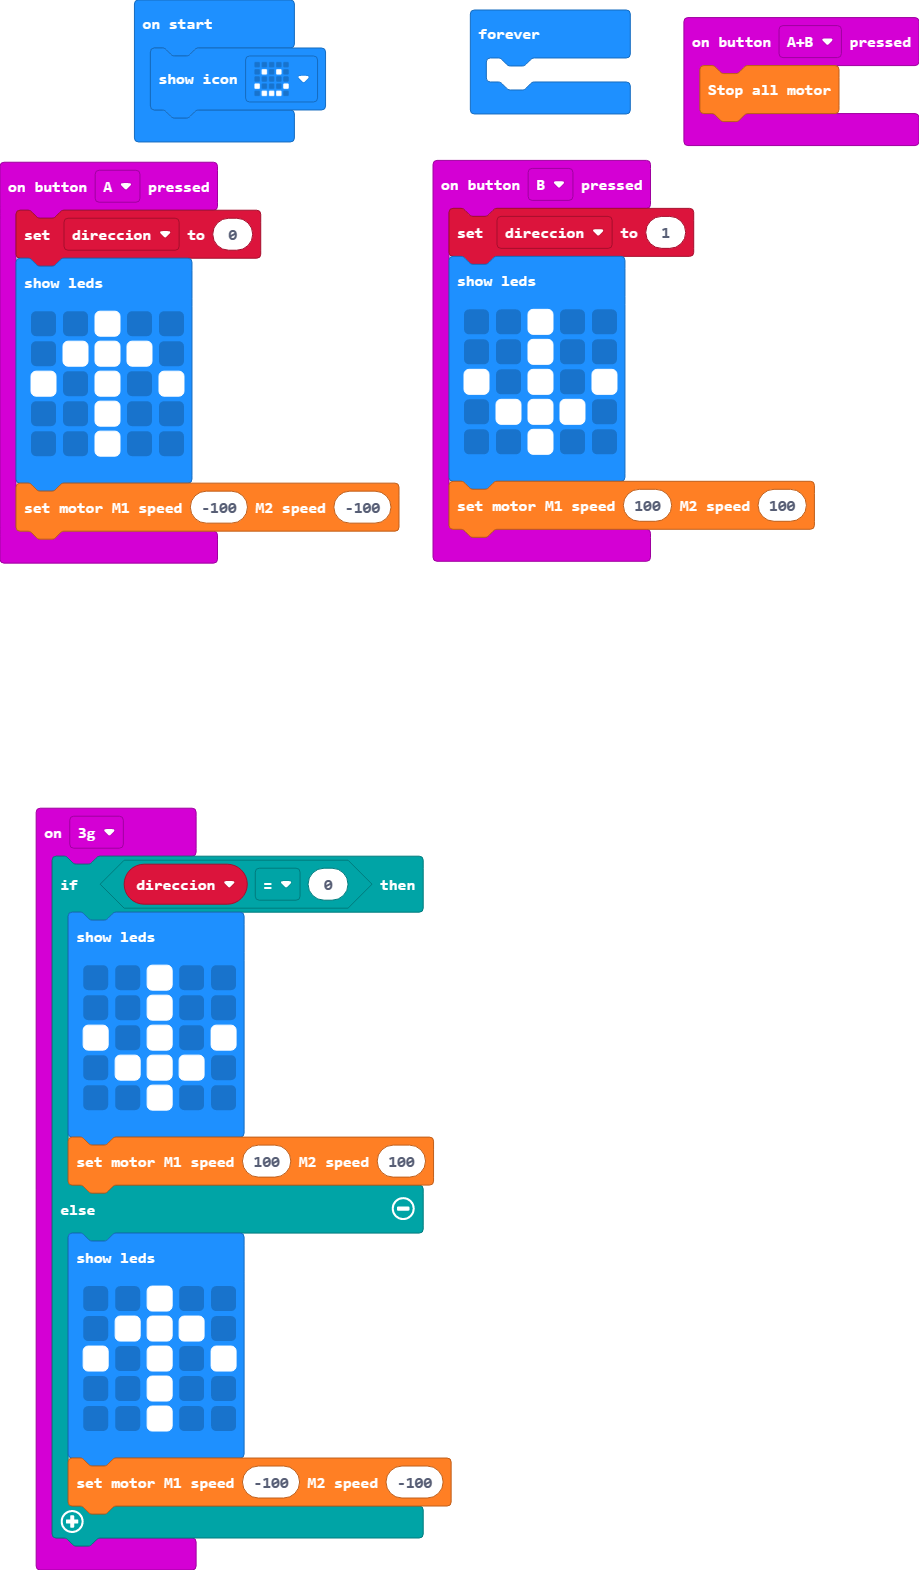
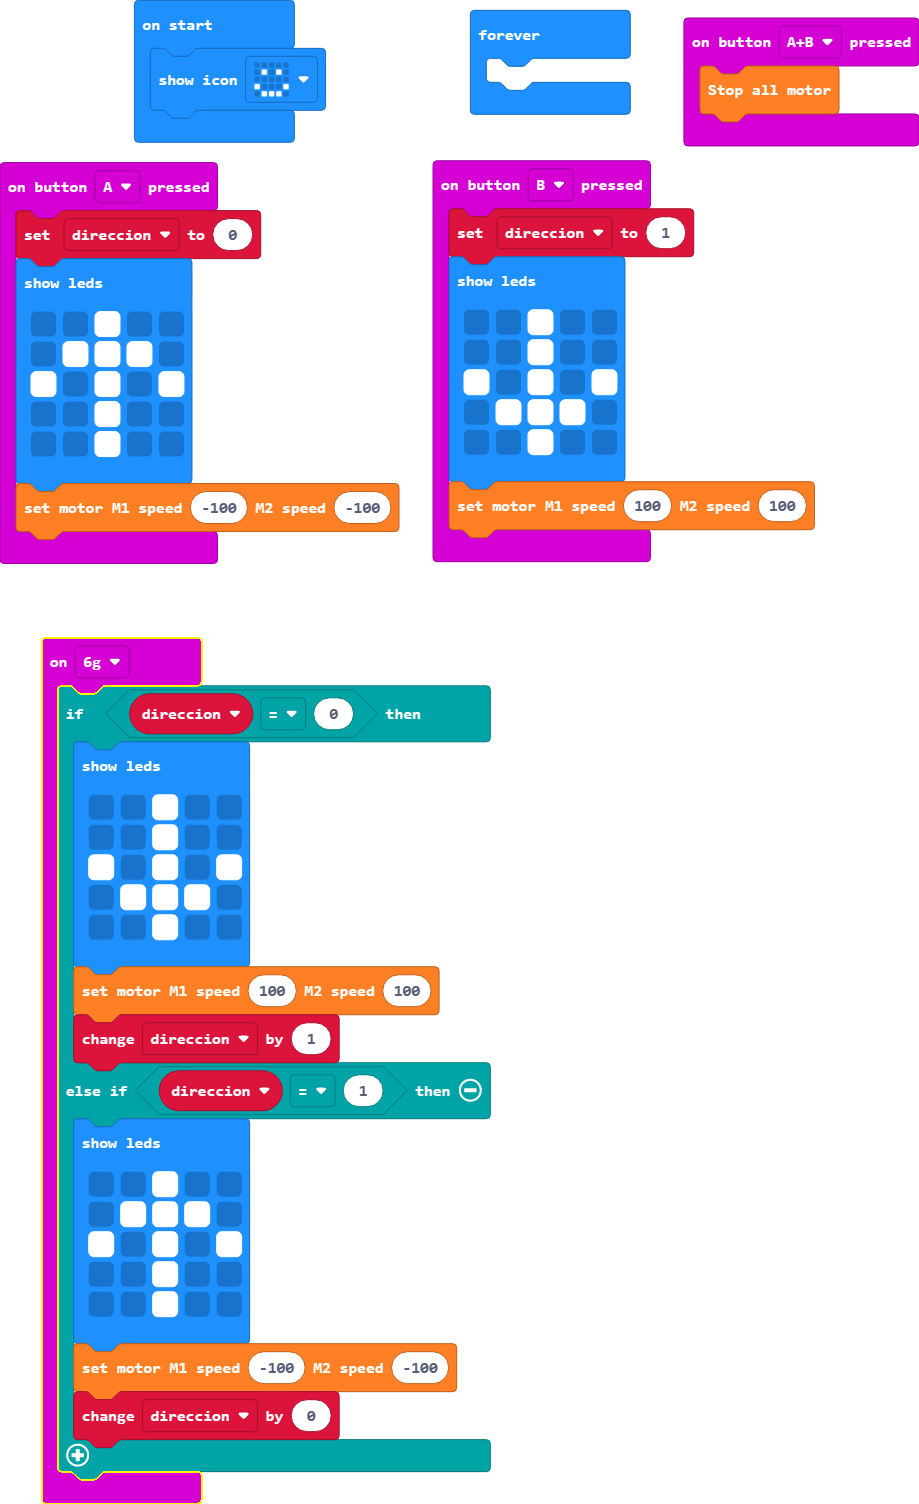
añadidas detalles en la parte de choque

diff --git a/main.ts b/main.ts
@@ -9,6 +9,29 @@ input.onButtonPressed(Button.A, function () {
         `)
     wuKong.setAllMotor(-100, -100)
 })
+input.onGesture(Gesture.SixG, function () {
+    if (direccion == 0) {
+        basic.showLeds(`
+            . . # . .
+            . . # . .
+            # . # . #
+            . # # # .
+            . . # . .
+            `)
+        wuKong.setAllMotor(100, 100)
+        direccion += 1
+    } else if (direccion == 1) {
+        basic.showLeds(`
+            . . # . .
+            . # # # .
+            # . # . #
+            . . # . .
+            . . # . .
+            `)
+        wuKong.setAllMotor(-100, -100)
+        direccion += 0
+    }
+})
 input.onButtonPressed(Button.AB, function () {
     wuKong.stopAllMotor()
 })
@@ -22,27 +45,6 @@ input.onButtonPressed(Button.B, function () {
         . . # . .
         `)
     wuKong.setAllMotor(100, 100)
-})
-input.onGesture(Gesture.ThreeG, function () {
-    if (direccion == 0) {
-        basic.showLeds(`
-            . . # . .
-            . . # . .
-            # . # . #
-            . # # # .
-            . . # . .
-            `)
-        wuKong.setAllMotor(100, 100)
-    } else {
-        basic.showLeds(`
-            . . # . .
-            . # # # .
-            # . # . #
-            . . # . .
-            . . # . .
-            `)
-        wuKong.setAllMotor(-100, -100)
-    }
 })
 let direccion = 0
 basic.showIcon(IconNames.Happy)
